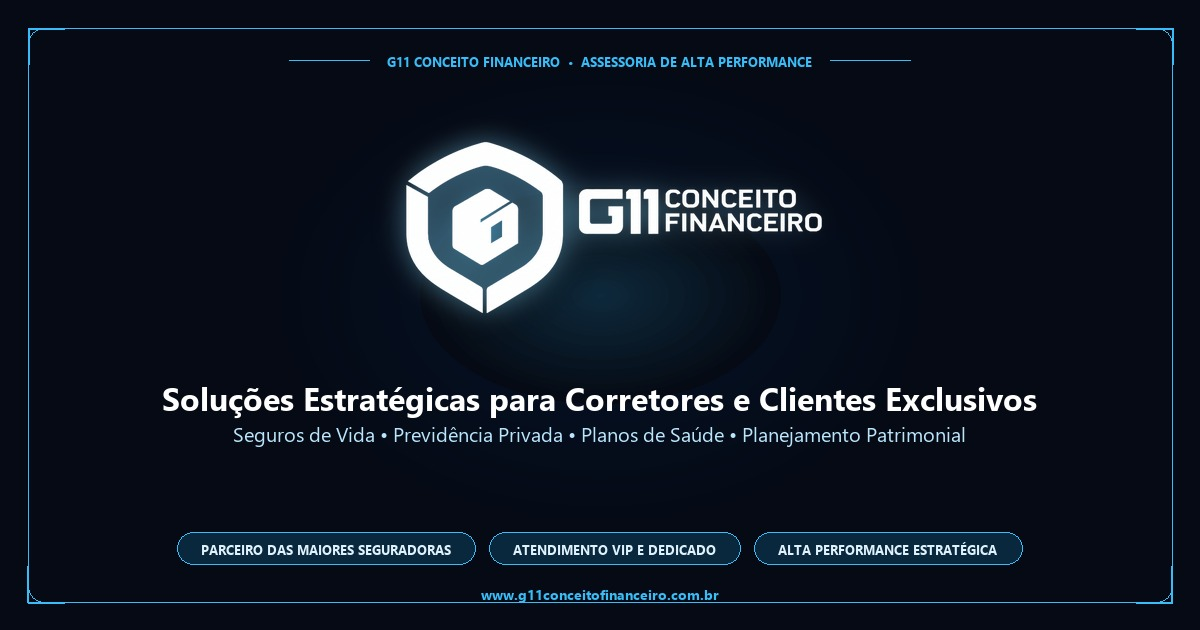
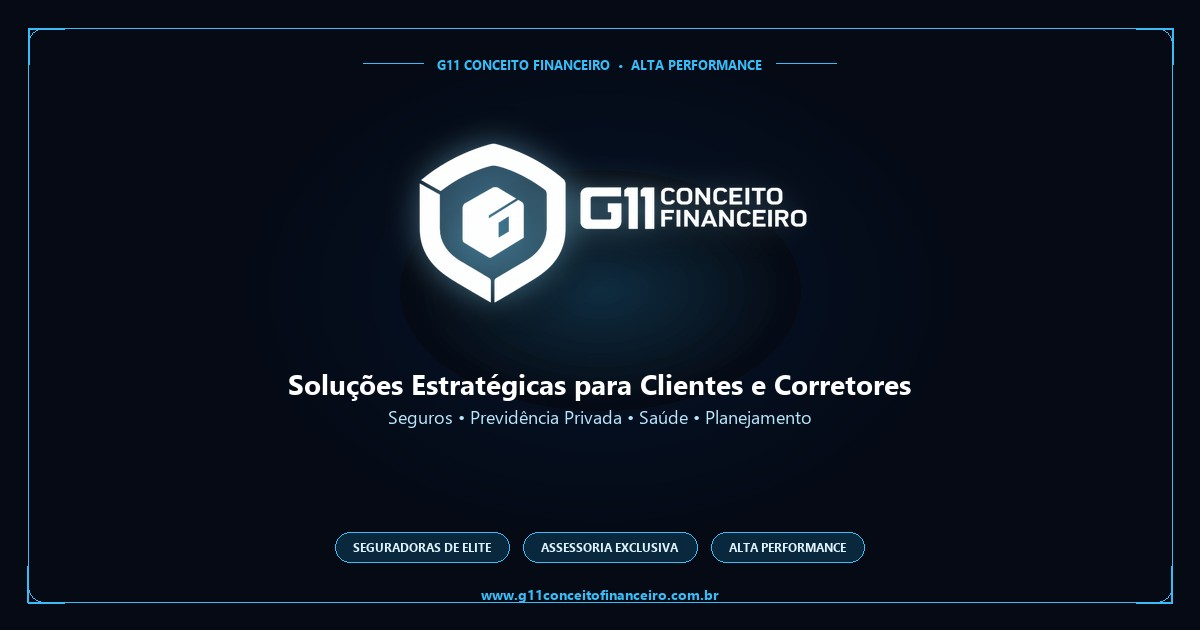
feat(seo): otimiza imagem og-image.jpg e tags para geracao de preview estilizado no WhatsApp

diff --git a/client/index.html b/client/index.html
@@ -30,19 +30,25 @@
     <meta property="og:url" content="https://www.g11conceitofinanceiro.com.br/" />
     <meta property="og:title" content="G11 Conceito Financeiro | Assessoria de Alta Performance" />
     <meta property="og:description" content="Assessoria especializada em seguros de vida, previdência privada, saúde e planejamento financeiro estratégico para corretores e clientes de elite." />
-    <meta property="og:image" content="https://www.g11conceitofinanceiro.com.br/og-image.png" />
-    <meta property="og:image:secure_url" content="https://www.g11conceitofinanceiro.com.br/og-image.png" />
-    <meta property="og:image:type" content="image/png" />
+    <meta property="og:image" content="https://www.g11conceitofinanceiro.com.br/og-image.jpg" />
+    <meta property="og:image:secure_url" content="https://www.g11conceitofinanceiro.com.br/og-image.jpg" />
+    <meta property="og:image:type" content="image/jpeg" />
     <meta property="og:image:width" content="1200" />
     <meta property="og:image:height" content="630" />
     <meta property="og:image:alt" content="G11 Conceito Financeiro - Assessoria Estratégica" />
+
+    <!-- Schema.org & Fallback for WhatsApp / Telegram -->
+    <meta itemprop="name" content="G11 Conceito Financeiro | Assessoria de Alta Performance" />
+    <meta itemprop="description" content="Assessoria especializada em seguros de vida, previdência privada, saúde e planejamento financeiro estratégico para corretores e clientes de elite." />
+    <meta itemprop="image" content="https://www.g11conceitofinanceiro.com.br/og-image.jpg" />
+    <link rel="image_src" href="https://www.g11conceitofinanceiro.com.br/og-image.jpg" />
 
     <!-- Twitter / X Card Preview -->
     <meta name="twitter:card" content="summary_large_image" />
     <meta name="twitter:url" content="https://www.g11conceitofinanceiro.com.br/" />
     <meta name="twitter:title" content="G11 Conceito Financeiro | Assessoria de Alta Performance" />
     <meta name="twitter:description" content="Assessoria especializada em seguros de vida, previdência privada, saúde e planejamento financeiro estratégico para corretores e clientes de elite." />
-    <meta name="twitter:image" content="https://www.g11conceitofinanceiro.com.br/og-image.png" />
+    <meta name="twitter:image" content="https://www.g11conceitofinanceiro.com.br/og-image.jpg" />
     
     <!-- Google Fonts Preconnect -->
     <link rel="preconnect" href="https://fonts.googleapis.com">

diff --git a/generate_og_image.py b/generate_og_image.py
@@ -1,123 +1,107 @@
-import math
+import os
 from PIL import Image, ImageDraw, ImageFont, ImageFilter
 
-# 1200 x 630 is standard Facebook, WhatsApp, LinkedIn, Twitter large card
 W, H = 1200, 630
 base = Image.new('RGB', (W, H), color='#050a14')
 
-# 1. Background Gradient & Ambient Glows
-# Create a radial glow in the center
+# 1. Ambient radial glows
 glow = Image.new('RGBA', (W, H), (0, 0, 0, 0))
 glow_draw = ImageDraw.Draw(glow)
 
-# Center cobalt glow
-center_x, center_y = W // 2, H // 2 - 20
-for r in range(350, 0, -10):
-    alpha = int(35 * (1 - r / 350))
+center_x, center_y = W // 2, H // 2 - 25
+for r in range(380, 0, -10):
+    alpha = int(40 * (1 - r / 380))
     glow_draw.ellipse([center_x - r, center_y - int(r * 0.7), center_x + r, center_y + int(r * 0.7)], fill=(0, 71, 171, alpha))
 
-# Center vibrant cyan highlight
-for r in range(180, 0, -8):
-    alpha = int(45 * (1 - r / 180))
+for r in range(200, 0, -8):
+    alpha = int(50 * (1 - r / 200))
     glow_draw.ellipse([center_x - r, center_y - int(r * 0.6), center_x + r, center_y + int(r * 0.6)], fill=(56, 189, 248, alpha))
 
 base.paste(glow, (0, 0), glow)
 
-# 2. Luxury Subtle Border & Corner Accents
+# 2. Border & Accents
 draw = ImageDraw.Draw(base)
 margin = 28
-# Outer border
-draw.rounded_rectangle([margin, margin, W - margin, H - margin], radius=16, outline=(56, 189, 248, 60), width=1)
+draw.rounded_rectangle([margin, margin, W - margin, H - margin], radius=16, outline=(56, 189, 248, 70), width=1)
 
-# Subtle corner accent lines
 corner_len = 36
-# Top Left
-draw.line([margin, margin, margin + corner_len, margin], fill=(56, 189, 248, 220), width=2)
-draw.line([margin, margin, margin, margin + corner_len], fill=(56, 189, 248, 220), width=2)
-# Top Right
-draw.line([W - margin - corner_len, margin, W - margin, margin], fill=(56, 189, 248, 220), width=2)
-draw.line([W - margin, margin, W - margin, margin + corner_len], fill=(56, 189, 248, 220), width=2)
-# Bottom Left
-draw.line([margin, H - margin, margin + corner_len, H - margin], fill=(56, 189, 248, 220), width=2)
-draw.line([margin, H - margin, margin, H - margin - corner_len], fill=(56, 189, 248, 220), width=2)
-# Bottom Right
-draw.line([W - margin - corner_len, H - margin, W - margin, H - margin], fill=(56, 189, 248, 220), width=2)
-draw.line([W - margin, H - margin, W - margin, H - margin - corner_len], fill=(56, 189, 248, 220), width=2)
+draw.line([margin, margin, margin + corner_len, margin], fill=(56, 189, 248, 240), width=2)
+draw.line([margin, margin, margin, margin + corner_len], fill=(56, 189, 248, 240), width=2)
+draw.line([W - margin - corner_len, margin, W - margin, margin], fill=(56, 189, 248, 240), width=2)
+draw.line([W - margin, margin, W - margin, margin + corner_len], fill=(56, 189, 248, 240), width=2)
+draw.line([margin, H - margin, margin + corner_len, H - margin], fill=(56, 189, 248, 240), width=2)
+draw.line([margin, H - margin, margin, H - margin - corner_len], fill=(56, 189, 248, 240), width=2)
+draw.line([W - margin - corner_len, H - margin, W - margin, H - margin], fill=(56, 189, 248, 240), width=2)
+draw.line([W - margin, H - margin, W - margin, H - margin - corner_len], fill=(56, 189, 248, 240), width=2)
 
 # 3. Fonts
 font_dir = 'C:/Windows/Fonts/'
 font_tag = ImageFont.truetype(font_dir + 'segoeuib.ttf', 13)
-font_title = ImageFont.truetype(font_dir + 'segoeuib.ttf', 32)
-font_subtitle = ImageFont.truetype(font_dir + 'segoeui.ttf', 20)
-font_badge = ImageFont.truetype(font_dir + 'segoeuib.ttf', 13)
+font_title = ImageFont.truetype(font_dir + 'segoeuib.ttf', 28)
+font_subtitle = ImageFont.truetype(font_dir + 'segoeui.ttf', 18)
+font_badge = ImageFont.truetype(font_dir + 'segoeuib.ttf', 12)
 font_url = ImageFont.truetype(font_dir + 'segoeuib.ttf', 14)
 
-# 4. Top Tagline with Cyan Lines
-tag_text = "G11 CONCEITO FINANCEIRO  •  ASSESSORIA DE ALTA PERFORMANCE"
+# 4. Top Tagline (Fits safely within central 580px zone)
+tag_text = "G11 CONCEITO FINANCEIRO  •  ALTA PERFORMANCE"
 bbox = draw.textbbox((0, 0), tag_text, font=font_tag)
 tw = bbox[2] - bbox[0]
 tag_x = (W - tw) // 2
-tag_y = 52
+tag_y = 55
 draw.text((tag_x, tag_y), tag_text, font=font_tag, fill=(56, 189, 248))
 
-# Line left and right of tag
-line_len = 80
-draw.line([tag_x - line_len - 18, tag_y + 8, tag_x - 18, tag_y + 8], fill=(56, 189, 248, 120), width=1)
-draw.line([tag_x + tw + 18, tag_y + 8, tag_x + tw + line_len + 18, tag_y + 8], fill=(56, 189, 248, 120), width=1)
+line_len = 60
+draw.line([tag_x - line_len - 14, tag_y + 8, tag_x - 14, tag_y + 8], fill=(56, 189, 248, 120), width=1)
+draw.line([tag_x + tw + 14, tag_y + 8, tag_x + tw + line_len + 14, tag_y + 8], fill=(56, 189, 248, 120), width=1)
 
-# 5. Place Central Logo
+# 5. Logo
 logo_path = 'client/public/uploads/branding/logo_hero_central.png'
 logo = Image.open(logo_path).convert('RGBA')
 
-# Target logo dimensions: width ~ 580px
-target_w = 580
+# Target width 540px (completely within 630px square safe zone)
+target_w = 540
 target_h = int(logo.height * (target_w / logo.width))
 logo = logo.resize((target_w, target_h), Image.Resampling.LANCZOS)
 
-# Create logo glow shadow
-logo_shadow = Image.new('RGBA', (W, H), (0, 0, 0, 0))
 logo_pos_x = (W - target_w) // 2
-logo_pos_y = 95
-# Paste into shadow canvas
+logo_pos_y = 100
+
+logo_shadow = Image.new('RGBA', (W, H), (0, 0, 0, 0))
 logo_shadow.paste(logo, (logo_pos_x, logo_pos_y), logo)
-# Apply blur for drop glow
-glow_layer = logo_shadow.filter(ImageFilter.GaussianBlur(16))
-# Enhance cyan tint in glow
-glow_enh = Image.new('RGBA', (W, H), (56, 189, 248, 140))
+glow_layer = logo_shadow.filter(ImageFilter.GaussianBlur(18))
+glow_enh = Image.new('RGBA', (W, H), (56, 189, 248, 160))
 glow_comp = Image.composite(glow_enh, glow_layer, glow_layer.split()[3])
-glow_final = glow_comp.filter(ImageFilter.GaussianBlur(10))
+glow_final = glow_comp.filter(ImageFilter.GaussianBlur(12))
 
 base.paste(glow_final, (0, 0), glow_final)
 base.paste(logo, (logo_pos_x, logo_pos_y), logo)
 
-# 6. Headline / Subtitle
-headline_y = logo_pos_y + target_h + 16
-headline_text = "Soluções Estratégicas para Corretores e Clientes Exclusivos"
+# 6. Headline & Subtitle within central 580px zone
+headline_y = logo_pos_y + target_h + 18
+headline_text = "Soluções Estratégicas para Clientes e Corretores"
 bbox_hl = draw.textbbox((0, 0), headline_text, font=font_title)
 hl_w = bbox_hl[2] - bbox_hl[0]
 draw.text(((W - hl_w) // 2, headline_y), headline_text, font=font_title, fill=(255, 255, 255))
 
-sub_text = "Seguros de Vida • Previdência Privada • Planos de Saúde • Planejamento Patrimonial"
+sub_text = "Seguros • Previdência Privada • Saúde • Planejamento"
 bbox_sub = draw.textbbox((0, 0), sub_text, font=font_subtitle)
 sub_w = bbox_sub[2] - bbox_sub[0]
-draw.text(((W - sub_w) // 2, headline_y + 44), sub_text, font=font_subtitle, fill=(186, 230, 253))
+draw.text(((W - sub_w) // 2, headline_y + 40), sub_text, font=font_subtitle, fill=(186, 230, 253))
 
-# 7. Badges row at bottom
+# 7. Badges row
 badges = [
-    "PARCEIRO DAS MAIORES SEGURADORAS",
-    "ATENDIMENTO VIP E DEDICADO",
-    "ALTA PERFORMANCE ESTRATÉGICA"
+    "SEGURADORAS DE ELITE",
+    "ASSESSORIA EXCLUSIVA",
+    "ALTA PERFORMANCE"
 ]
 
 badge_y = H - 98
-# Calculate total width of badges to center them
-badge_paddings = 24
 badge_boxes = []
 total_b_width = 0
 for b in badges:
     bb = draw.textbbox((0, 0), b, font=font_badge)
-    bw = (bb[2] - bb[0]) + badge_paddings * 2
-    badge_boxes.append((b, bw, bb[3] - bb[1]))
+    bw = (bb[2] - bb[0]) + 36
+    badge_boxes.append((b, bw))
     total_b_width += bw
 
 gap = 14
@@ -125,24 +109,62 @@ total_row_w = total_b_width + gap * (len(badges) - 1)
 start_bx = (W - total_row_w) // 2
 
 cur_x = start_bx
-for b, bw, bh in badge_boxes:
-    # draw rounded box
-    rect = [cur_x, badge_y, cur_x + bw, badge_y + 32]
-    draw.rounded_rectangle(rect, radius=16, fill=(9, 40, 61, 220), outline=(56, 189, 248, 100), width=1)
-    # text
+for b, bw in badge_boxes:
+    rect = [cur_x, badge_y, cur_x + bw, badge_y + 30]
+    draw.rounded_rectangle(rect, radius=15, fill=(9, 40, 61, 230), outline=(56, 189, 248, 110), width=1)
     bb = draw.textbbox((0, 0), b, font=font_badge)
     tw = bb[2] - bb[0]
-    draw.text((cur_x + (bw - tw) // 2, badge_y + 8), b, font=font_badge, fill=(224, 242, 254))
+    draw.text((cur_x + (bw - tw) // 2, badge_y + 7), b, font=font_badge, fill=(224, 242, 254))
     cur_x += bw + gap
 
-# 8. Bottom URL badge
+# 8. Bottom URL
 url_text = "www.g11conceitofinanceiro.com.br"
 bbox_url = draw.textbbox((0, 0), url_text, font=font_url)
 url_w = bbox_url[2] - bbox_url[0]
-url_x = (W - url_w) // 2
-draw.text((url_x, H - 46), url_text, font=font_url, fill=(56, 189, 248))
+draw.text(((W - url_w) // 2, H - 46), url_text, font=font_url, fill=(56, 189, 248))
 
-# Save high-quality optimized PNG and JPEG
+# Save landscape 1200x630
+base.save('client/public/og-image.jpg', format='JPEG', quality=90, optimize=True)
 base.save('client/public/og-image.png', format='PNG', optimize=True)
-base.save('client/public/og-image.jpg', format='JPEG', quality=92, optimize=True)
-print("Successfully generated client/public/og-image.png and og-image.jpg")
+
+# 9. Create 600x600 Square Thumbnail for WhatsApp Android / Square Card previews
+sq_w, sq_h = 600, 600
+sq = Image.new('RGB', (sq_w, sq_h), color='#050a14')
+sq_glow = Image.new('RGBA', (sq_w, sq_h), (0, 0, 0, 0))
+sq_gdraw = ImageDraw.Draw(sq_glow)
+
+for r in range(260, 0, -8):
+    alpha = int(45 * (1 - r / 260))
+    sq_gdraw.ellipse([300 - r, 300 - r, 300 + r, 300 + r], fill=(0, 71, 171, alpha))
+for r in range(140, 0, -6):
+    alpha = int(60 * (1 - r / 140))
+    sq_gdraw.ellipse([300 - r, 300 - r, 300 + r, 300 + r], fill=(56, 189, 248, alpha))
+sq.paste(sq_glow, (0, 0), sq_glow)
+
+sq_draw = ImageDraw.Draw(sq)
+sq_draw.rounded_rectangle([16, 16, sq_w - 16, sq_h - 16], radius=16, outline=(56, 189, 248, 80), width=1)
+
+# Central logo on square
+sq_logo_w = 460
+sq_logo_h = int(logo.height * (sq_logo_w / logo.width))
+sq_logo = logo.resize((sq_logo_w, sq_logo_h), Image.Resampling.LANCZOS)
+sq_logo_x = (sq_w - sq_logo_w) // 2
+sq_logo_y = 130
+sq.paste(sq_logo, (sq_logo_x, sq_logo_y), sq_logo)
+
+# Subtitle on square
+font_sq_t = ImageFont.truetype(font_dir + 'segoeuib.ttf', 20)
+sq_text = "Assessoria de Alta Performance"
+bbox_sq = sq_draw.textbbox((0, 0), sq_text, font=font_sq_t)
+sq_tw = bbox_sq[2] - bbox_sq[0]
+sq_draw.text(((sq_w - sq_tw) // 2, sq_logo_y + sq_logo_h + 30), sq_text, font=font_sq_t, fill=(255, 255, 255))
+
+font_sq_sub = ImageFont.truetype(font_dir + 'segoeui.ttf', 15)
+sq_sub = "Seguros • Previdência • Saúde"
+bbox_sqs = sq_draw.textbbox((0, 0), sq_sub, font=font_sq_sub)
+sq_sw = bbox_sqs[2] - bbox_sqs[0]
+sq_draw.text(((sq_w - sq_sw) // 2, sq_logo_y + sq_logo_h + 60), sq_sub, font=font_sq_sub, fill=(56, 189, 248))
+
+sq.save('client/public/og-image-square.jpg', format='JPEG', quality=90, optimize=True)
+
+print("Generated og-image.jpg, og-image.png, og-image-square.jpg")
